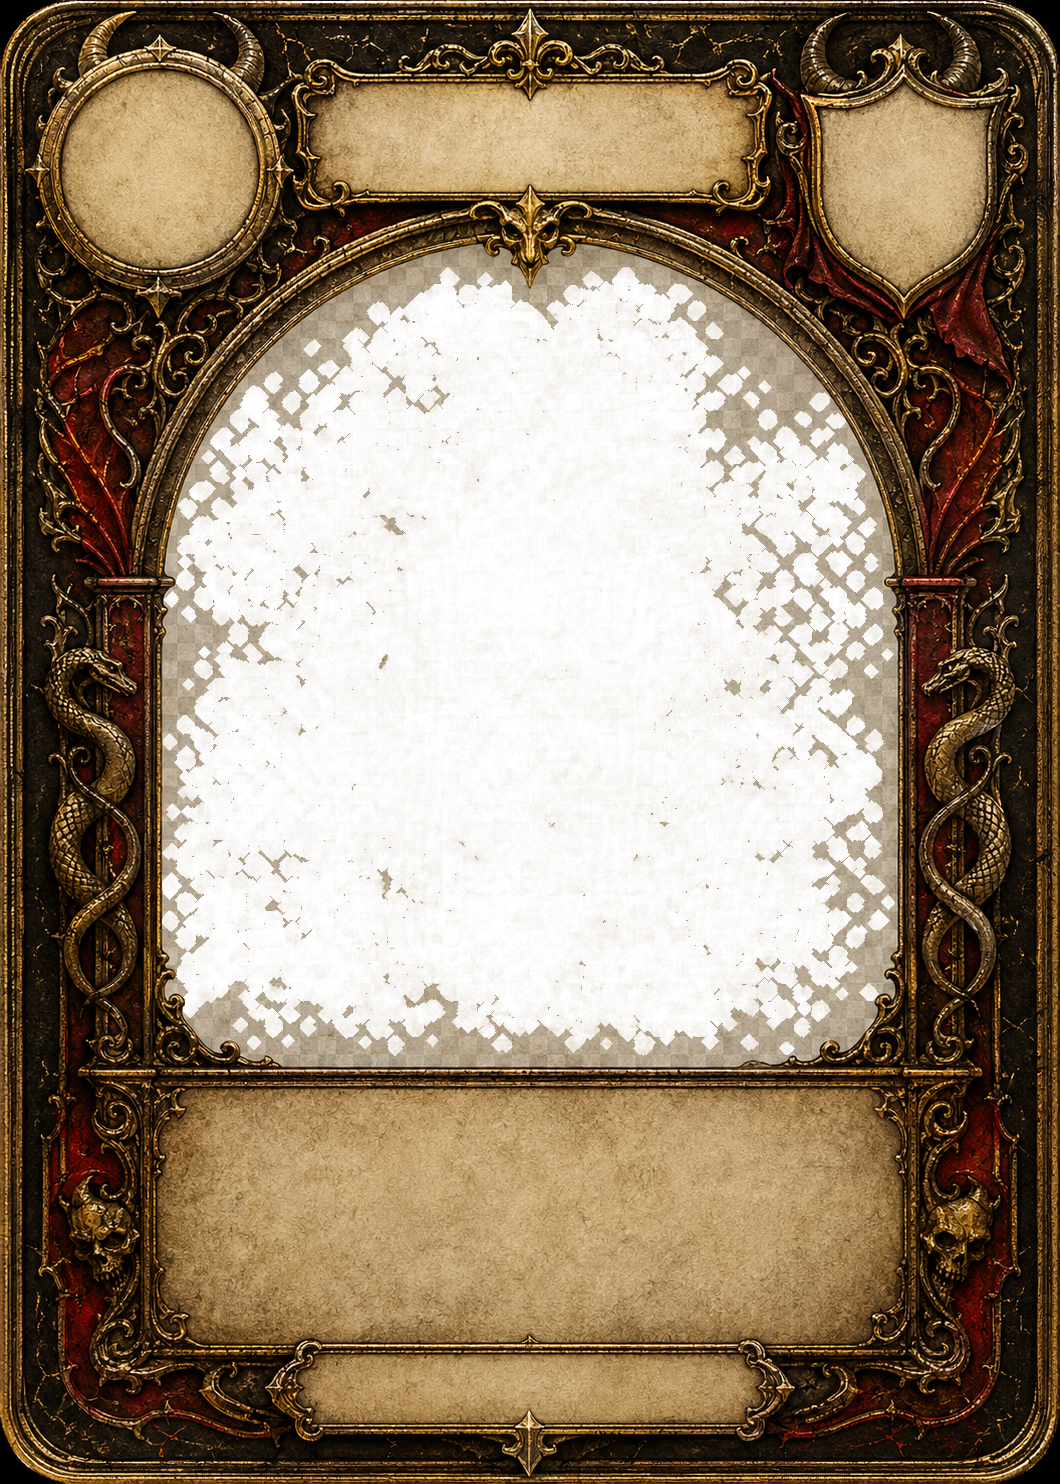
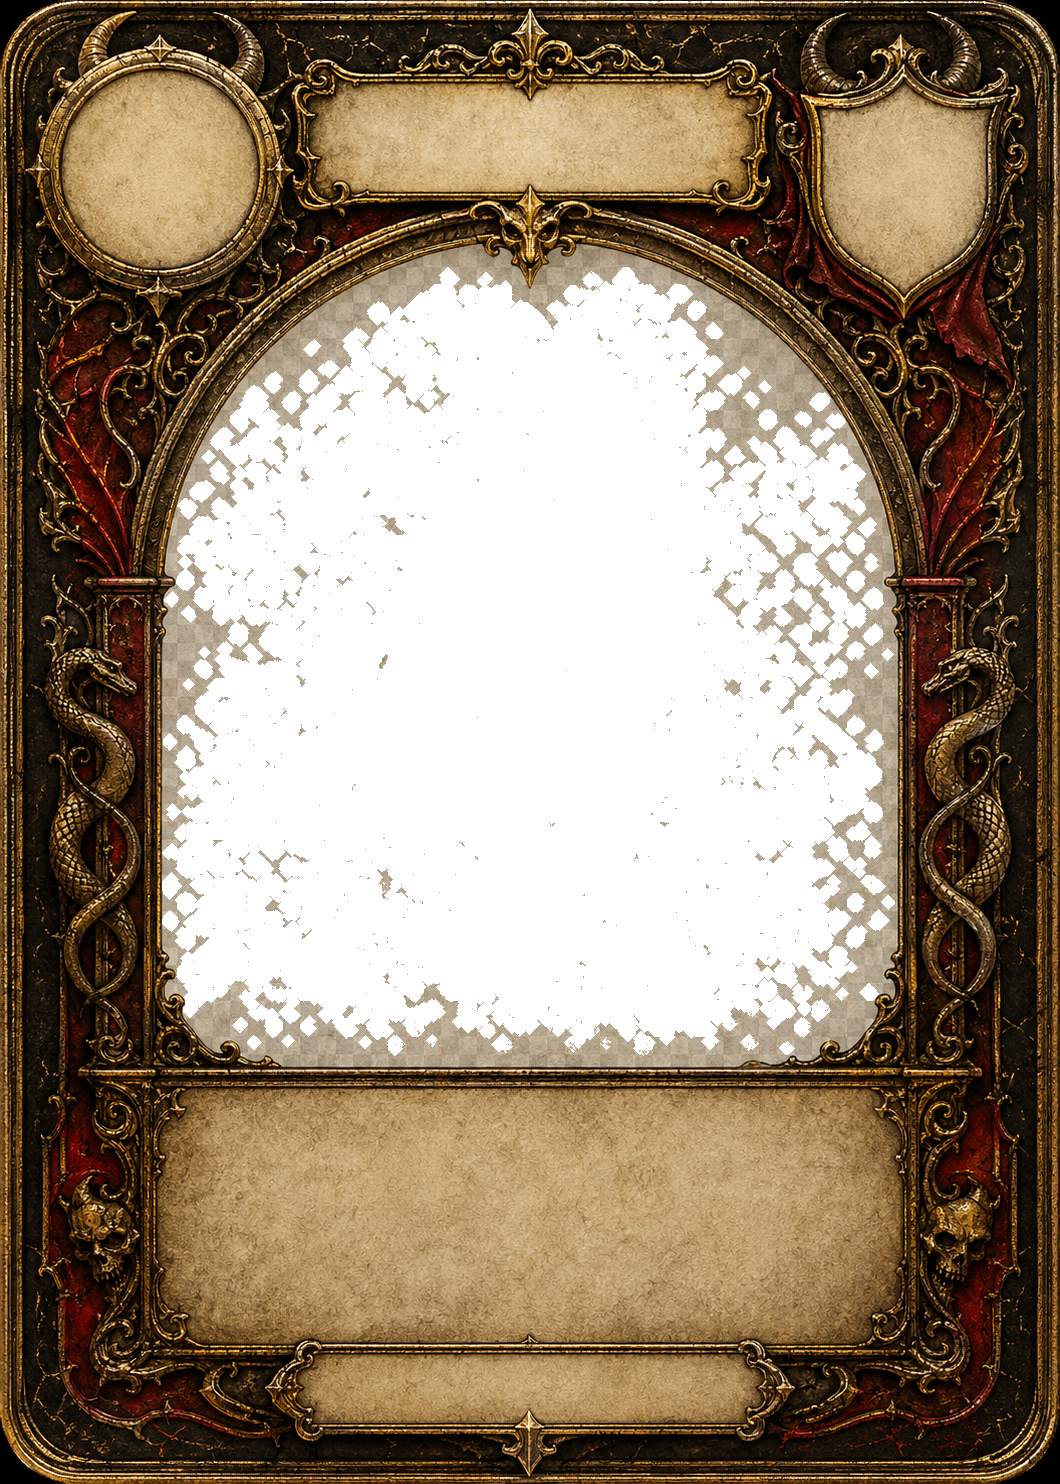
Alpha binaire (0/255) pour fix Impedita + bords nets sur tous les templates
https://claude.ai/code/session_011baaC7zEExbd5eSjuzVu4k

diff --git a/tools/extract_arch_alpha.py b/tools/extract_arch_alpha.py
@@ -1,21 +1,20 @@
 #!/usr/bin/env python3
 """
-Convert ChatGPT-generated card templates into RGBA with the central arch
-made transparent. Uses connected-component detection of the parchment
-region around the image center, then preserves ornaments inside that
-region (skull, doves, candles, snakes, etc.) by alpha-keying their
-"ornament-likeness".
+Convert ChatGPT-generated card templates into RGBA. Uses connected-component
+detection of the parchment region around the image center, then keeps
+true ornaments (skull, doves, candles, crosses) opaque inside that region.
+
+Output is binary alpha (0 or 255) so edges are crisp and the parchment
+inside the arch is fully transparent regardless of palette.
 
 Usage:
     python3 tools/extract_arch_alpha.py <input.png> <output.png>
 """
-
 import sys
 from PIL import Image
 import numpy as np
 from scipy.ndimage import label, binary_closing
 
-# Where to look for the arch's parchment (central rectangle, in fractions)
 SEARCH_Y = (0.13, 0.74)
 SEARCH_X = (0.13, 0.87)
 CLOSING_ITER = 6
@@ -37,7 +36,6 @@ def process(in_path: str, out_path: str) -> None:
         & (lum > 160) & (lum < 248)
         & (desat < 90)
     )
-
     box = np.zeros_like(parchment, dtype=bool)
     y0, y1 = int(h * SEARCH_Y[0]), int(h * SEARCH_Y[1])
     x0, x1 = int(w * SEARCH_X[0]), int(w * SEARCH_X[1])
@@ -56,18 +54,17 @@ def process(in_path: str, out_path: str) -> None:
                     break
             if seed:
                 break
-
     arch_zone = labeled == seed if seed else np.zeros_like(labeled, dtype=bool)
-    # Close small holes inside the arch (gaps between ornament details)
     arch_zone = ~binary_closing(~arch_zone, iterations=CLOSING_ITER)
 
-    s_sat = np.clip((desat - 20) / 50.0, 0, 1)
-    s_dark = np.clip((140 - lum) / 60.0, 0, 1)
-    s_gold = np.clip((100 - B) / 40.0, 0, 1)
+    s_sat = np.clip((desat - 30) / 30.0, 0, 1)
+    s_dark = np.clip((130 - lum) / 60.0, 0, 1)
+    s_gold = np.clip((90 - B) / 40.0, 0, 1)
     ornament_strength = np.maximum(np.maximum(s_sat, s_dark), s_gold)
-    alpha_in = np.clip((ornament_strength - 0.2) * 320, 0, 255)
+    is_inner_ornament = ornament_strength > 0.45
 
-    alpha = np.where(arch_zone, alpha_in, 255).astype(np.uint8)
+    transparent_zone = arch_zone & ~is_inner_ornament
+    alpha = np.where(transparent_zone, 0, 255).astype(np.uint8)
     arr[:, :, 3] = alpha
     Image.fromarray(np.clip(arr, 0, 255).astype(np.uint8), mode="RGBA").save(
         out_path, optimize=True
